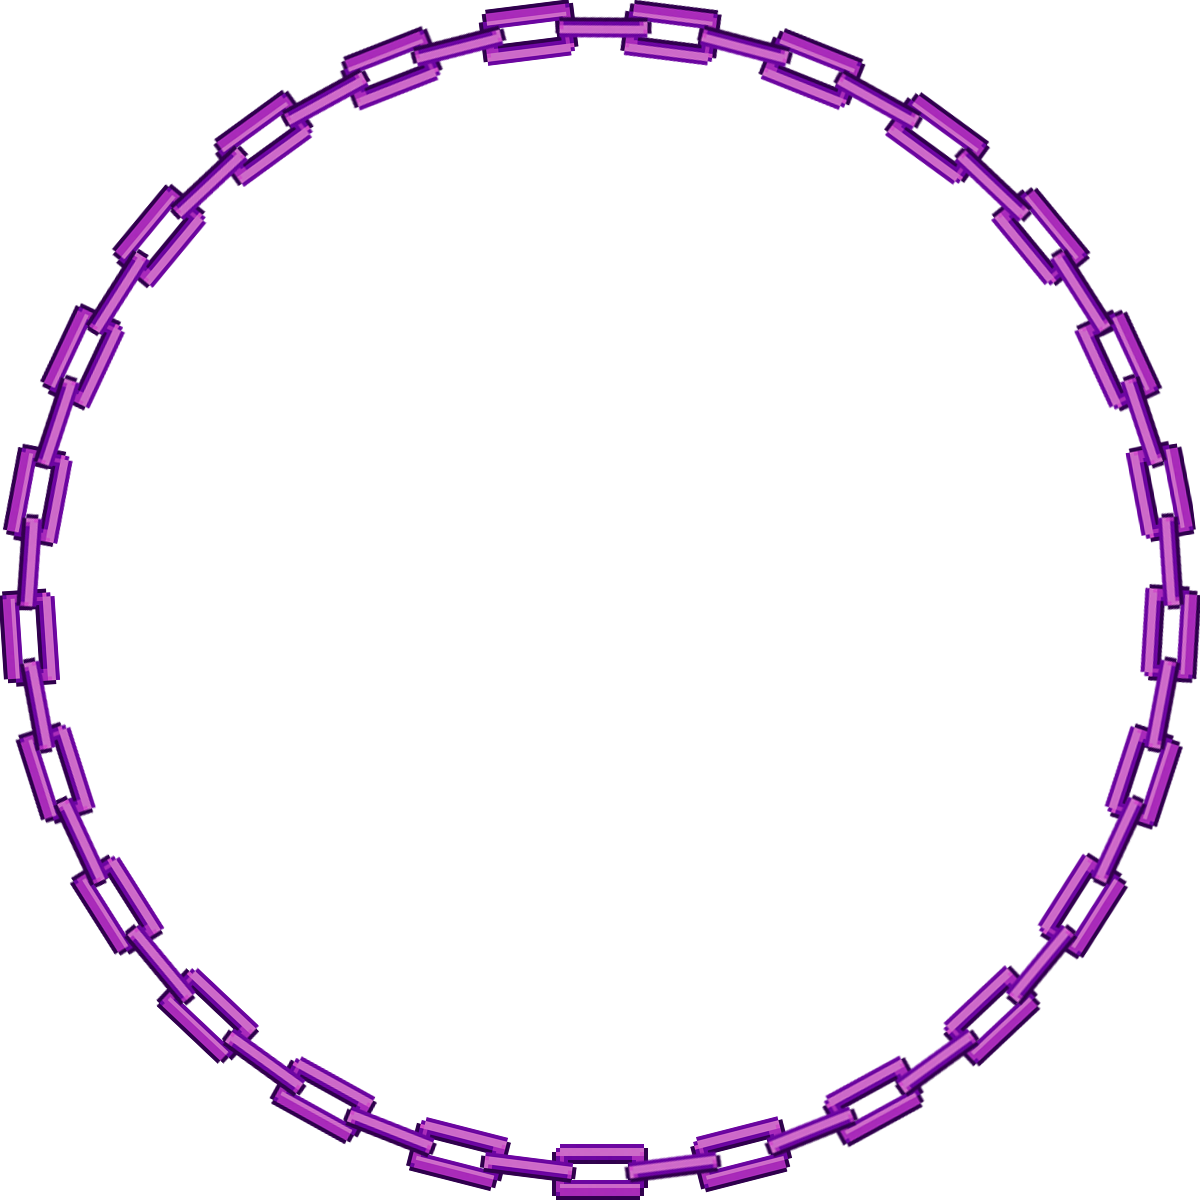
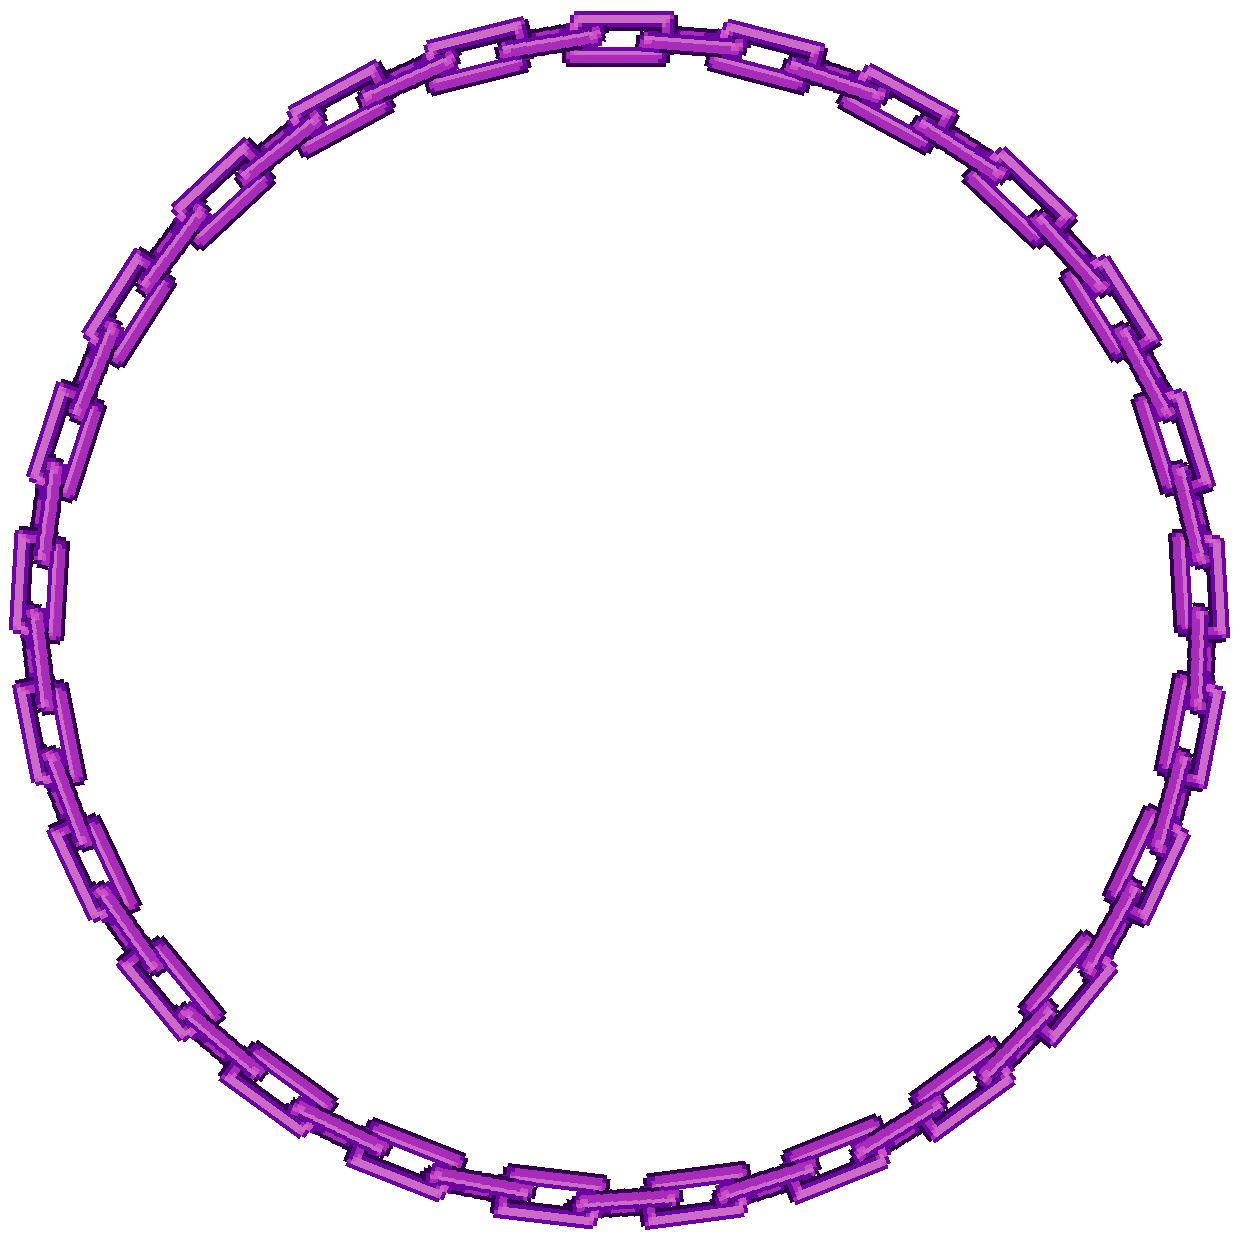
update chain ring sprite with depth

Changed region(s): [[0.0, 0.0, 1.0, 1.0]]

diff --git a/Content/Items/Hell/Accessories.Misery.cs b/Content/Items/Hell/Accessories.Misery.cs
@@ -65,7 +65,7 @@ namespace StarlightRiver.Content.Items.Hell
 			if (Equipped(player))
 			{
 				var tex = Assets.Items.Hell.ChainRing.Value;
-				spriteBatch.Draw(tex, player.Center + Vector2.UnitY * player.gfxOffY - Main.screenPosition, null, new Color(200, 200, 255, 0) * 0.2f, Main.GameUpdateCount * 0.002f, tex.Size() / 2f, 600f / tex.Width, 0, 0);
+				spriteBatch.Draw(tex, player.Center + Vector2.UnitY * player.gfxOffY - Main.screenPosition, null, new Color(200, 200, 255, 0) * 0.2f, Main.GameUpdateCount * 0.002f, tex.Size() / 2f, 620f / tex.Width, 0, 0);
 
 				var glow = Assets.Keys.GlowAlpha.Value;
 				spriteBatch.Draw(glow, player.Center + Vector2.UnitY * player.gfxOffY - Main.screenPosition, null, new Color(150, 50, 255, 0) * 0.1f, 0f, glow.Size() / 2f, 800f / glow.Width, 0, 0);
